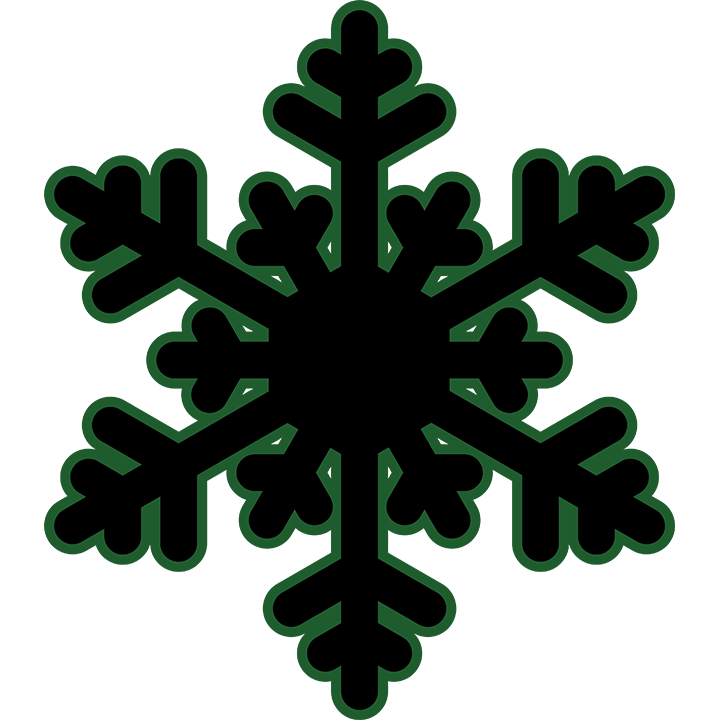
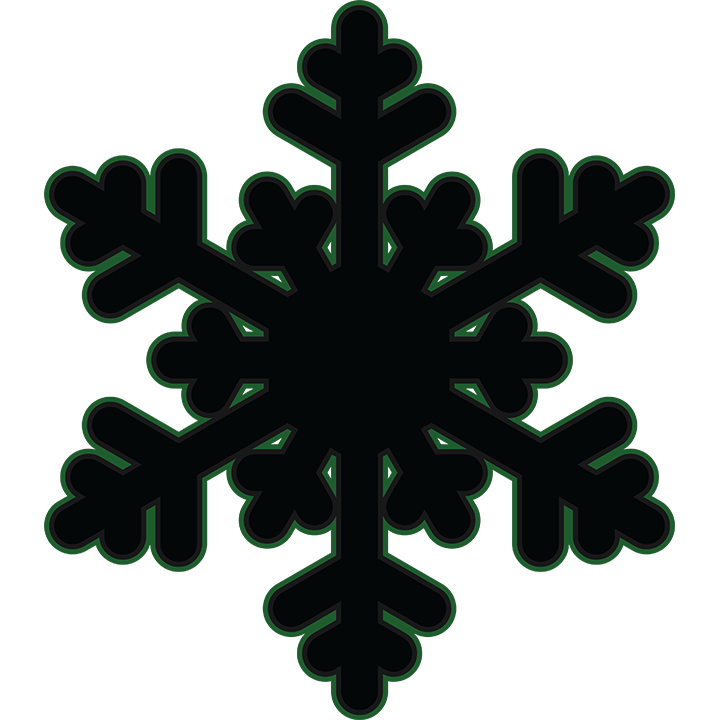
revised bgImages for current and playback snowflakes, added sep playback snowflake instance comp

diff --git a/src/components/instance_playback_snowflake.js b/src/components/instance_playback_snowflake.js
@@ -1,0 +1,227 @@
+import React, { Component } from 'react';
+import { connect } from 'react-redux';
+
+class InstancePlaybackSnowflake extends Component {
+
+	getColor(colNum) {
+		const { currentColorPalette } = this.props;
+		return currentColorPalette[colNum].colorVal;
+	}
+
+	createNewLightsObj(currentLights, instanceNumber) {
+		const newArray = [];
+		for (let i = 0; i < 30; i++) {
+			let newObj = {};
+			newObj.lightNum = i;
+			newObj.lightColor = this.getColor(currentLights[i][instanceNumber].colorNum);
+			newArray.push(newObj);
+		};
+		return _.mapKeys(newArray, 'lightNum');
+	}
+
+	renderLights() {
+		const { currentLights, values, instanceNumber, instanceSize } = this.props;
+		const lightsObj = this.createNewLightsObj(currentLights, instanceNumber);
+
+		const containerSize = instanceSize,
+			lightDia = containerSize * (20 / 420),
+			lightOffset = lightDia / 2,
+			lightBorderSize = containerSize < 210 ? 0 : 1;
+		const lightLocations = [
+			{ lightNum: 0,
+				top: '36%',
+				left: `calc(50% - ${lightOffset}px)`,
+			},
+			{ lightNum: 1,
+				top: '13%',
+				left: '38.2%',
+			},
+			{ lightNum: 2,
+				top: '1.7%',
+				left: `calc(50% - ${lightOffset}px)`,
+			},
+			{ lightNum: 3,
+				top: '13%',
+				right: '38%',
+			},
+			{ lightNum: 4,
+				top: '25.3%',
+				right: '34.6%',
+			},
+			{ lightNum: 5,
+				top: '41.7%',
+				right: '37.4%',
+			},
+			{ lightNum: 6,
+				top: '22.1%',
+				right: '22.6%',
+			},
+			{ lightNum: 7,
+				top: '24.55%',
+				right: '7.65%',
+			},
+			{ lightNum: 8,
+				top: '38.6%',
+				right: '13%',
+			},
+			{ lightNum: 9,
+				top: `calc(50% - ${lightOffset}px)`,
+				right: '22.05%',
+			},
+			{ lightNum: 10,
+				bottom: '41.7%',
+				right: '37.4%',
+			},
+			{ lightNum: 11,
+				bottom: '38.6%',
+				right: '13%',
+			},
+			{ lightNum: 12,
+				bottom: '24.62%',
+				right: '7.65%',
+			},
+			{ lightNum: 13,
+				bottom: '22.1%',
+				right: '22.6%',
+			},
+			{ lightNum: 14,
+				bottom: '25.3%',
+				right: '34.6%',
+			},
+			{ lightNum: 15,
+				bottom: '36%',
+				left: `calc(50% - ${lightOffset}px)`,
+			},
+			{ lightNum: 16,
+				bottom: '13%',
+				right: '38%',
+			},
+			{ lightNum: 17,
+				bottom: '1.7%',
+				left: `calc(50% - ${lightOffset}px)`,
+			},
+			{ lightNum: 18,
+				bottom: '13%',
+				left: '38%',
+			},
+			{ lightNum: 19,
+				bottom: '25.3%',
+				left: '34.8%',
+			},
+			{ lightNum: 20,
+				bottom: '41.7%',
+				left: '37.4%',
+			},
+			{ lightNum: 21,
+				bottom: '22.1%',
+				left: '22.6%',
+			},
+			{ lightNum: 22,
+				bottom: '24.62%',
+				left: '7.65%',
+			},
+			{ lightNum: 23,
+				bottom: '38.6%',
+				left: '13%',
+			},
+			{ lightNum: 24,
+				bottom: `calc(50% - ${lightOffset}px)`,
+				left: '22.05%',
+			},
+			{ lightNum: 25,
+				top: '41.7%',
+				left: '37.4%',
+			},
+			{ lightNum: 26,
+				top: '38.6%',
+				left: '13%',
+			},
+			{ lightNum: 27,
+				top: '24.62%',
+				left: '7.65%',
+			},
+			{ lightNum: 28,
+				top: '22.1%',
+				left: '22.6%',
+			},
+			{ lightNum: 29,
+				top: '25.3%',
+				left: '34.8%',
+			}
+		]
+
+		const styles = {
+			lightCircle: {
+				width: lightDia,
+				height: lightDia,
+				borderRadius: '50%',
+				border: `${lightBorderSize}px solid ${values.nogGrayText}`,
+				position: 'absolute'
+			}
+		}
+
+		return _.map(lightsObj, light => {
+			return (
+				<div
+					key={light.lightNum}
+					style={{ ...styles.lightCircle,
+						backgroundColor: light.lightColor,
+						left: lightLocations[light.lightNum].left,
+						top: lightLocations[light.lightNum].top,
+						right: lightLocations[light.lightNum].right,
+						bottom: lightLocations[light.lightNum].bottom
+					}} />
+			);
+		})
+	}
+
+	render() {
+		const { values, instanceNumber, instanceSize, instanceLocation } = this.props;
+		const containerSize = instanceSize;
+		const styles = {
+			root: {
+				position: 'absolute',
+				top: instanceLocation.top,
+				left: instanceLocation.left,
+			},
+			container: {
+				position: 'relative',
+				width: containerSize,
+				height: containerSize,
+				backgroundImage: 'url(../src/img/snowflake_playback_bgImage.png',
+				backgroundSize: '100% 100%'
+			},
+			labelDiv: {
+				position: 'absolute',
+				width: this.props.instanceSize / 8,
+				// border: '1px dotted green',
+				top: `calc(50% - ${this.props.instanceSize / 15}px)`,
+				left: `calc(50% - ${this.props.instanceSize / 16}px)`,
+			},
+			labelText: {
+				textAlign: 'center',
+				fontSize: this.props.instanceSize / 11,
+				color: `${values.nogGreen}`
+			}
+		};
+
+		return (
+			<div style={styles.root}>
+				<div style={styles.container}>
+					<div style={styles.labelDiv}>
+						<div style={styles.labelText}>
+							{instanceNumber + 1}
+						</div>
+					</div>
+					{this.renderLights()}
+				</div>
+			</div>
+		);
+	}
+}
+
+function mapStateToProps({ currentColorPalette, currentLights, values }) {
+	return { currentColorPalette, currentLights, values };
+}
+
+export default connect(mapStateToProps)(InstancePlaybackSnowflake);

diff --git a/src/components/playback_snowflake.js b/src/components/playback_snowflake.js
@@ -5,7 +5,7 @@ import { connect } from 'react-redux';
 import { setCurrentPattern } from '../actions';
 
 import PatternInfo from './patternInfo';
-import InstanceSnowflake from './instance_snowflake';
+import InstancePlaybackSnowflake from './instance_playback_snowflake';
 
 import MuiThemeProvider from 'material-ui/styles/MuiThemeProvider';
 import Slider from 'material-ui/Slider';
@@ -70,7 +70,7 @@ class PlaybackSnowflake extends Component {
 						name={pattern.name}
 						description={pattern.description}
 						defaultSpeed={pattern.defaultSpeed} />
-					<InstanceSnowflake
+					<InstancePlaybackSnowflake
 						instanceNumber={this.state.displayInstance}
 						instanceSize={currentInstanceSize}
 						instanceLocation={{

diff --git a/src/reducers/reducer_values.js b/src/reducers/reducer_values.js
@@ -2,7 +2,7 @@ export default function() {
 
 	return {
 		nogRed: '#701626',
-		nogGreen: '#195816',
+		nogGreen: '#215C2E',
 		nogBackground: '#1A1A1A',
 		nogGrayText: '#5C5C5C'
 	}
